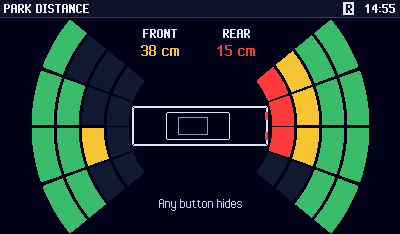
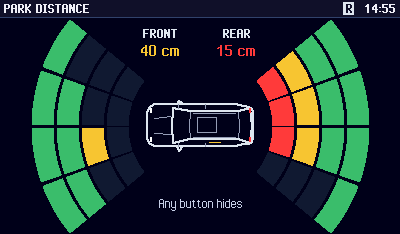
navx: the car per body, refreshed Car, PDC and Theme shots
Claude-Session: https://claude.ai/code/session_01V7gBdsU4u62Ajb22va6Ae4

Changed region(s): [[0.33, 0.4188, 0.69, 0.6581], [0.72, 0.7179, 0.84, 0.9274], [0.33, 0.1795, 0.39, 0.2393]]

diff --git a/docs/tools/navx/shell.md b/docs/tools/navx/shell.md
@@ -96,6 +96,22 @@ values. **Data**: coolant, battery, outside temperature, speed and revs.
 
 ![Car: the trip values](/navx/shell/car-trip.png)
 
+The car on these screens is your body, picked in Settings: twelve of
+them — the E46 Sedan, Coupé, Convertible, Touring and Compact, the E39
+Sedan and Touring, the E38, X5, Z8, X3 and Z4 — each at its real length
+and width, with the right doors, roof, tailgate or open cockpit. The
+outlines are traced from plan-view blueprints by
+[getoutlines.com](https://getoutlines.com) (CC BY 4.0); only the
+coordinates are kept.
+
+![E38](/navx/shell/body-e38.png)
+
+![E39 Touring](/navx/shell/body-e39-touring.png)
+
+![X5](/navx/shell/body-e53-x5.png)
+
+![Z4](/navx/shell/body-e85-z4.png)
+
 ## Phone
 
 ![Phone: Messages, Contacts and Favourites beside the menu](/navx/shell/phone.png)
